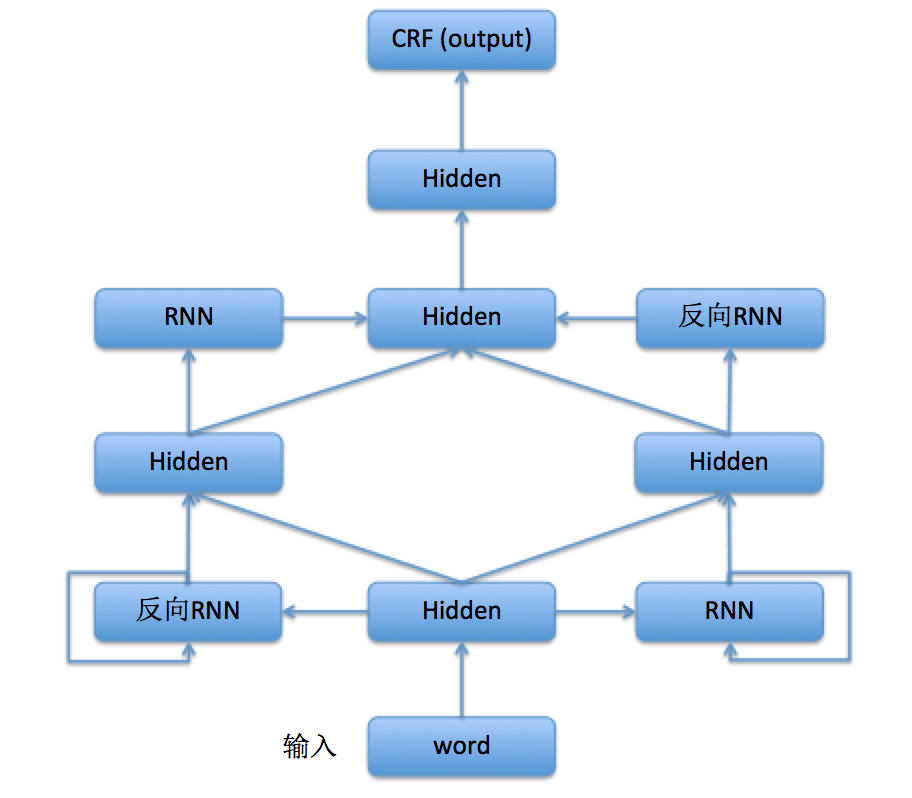
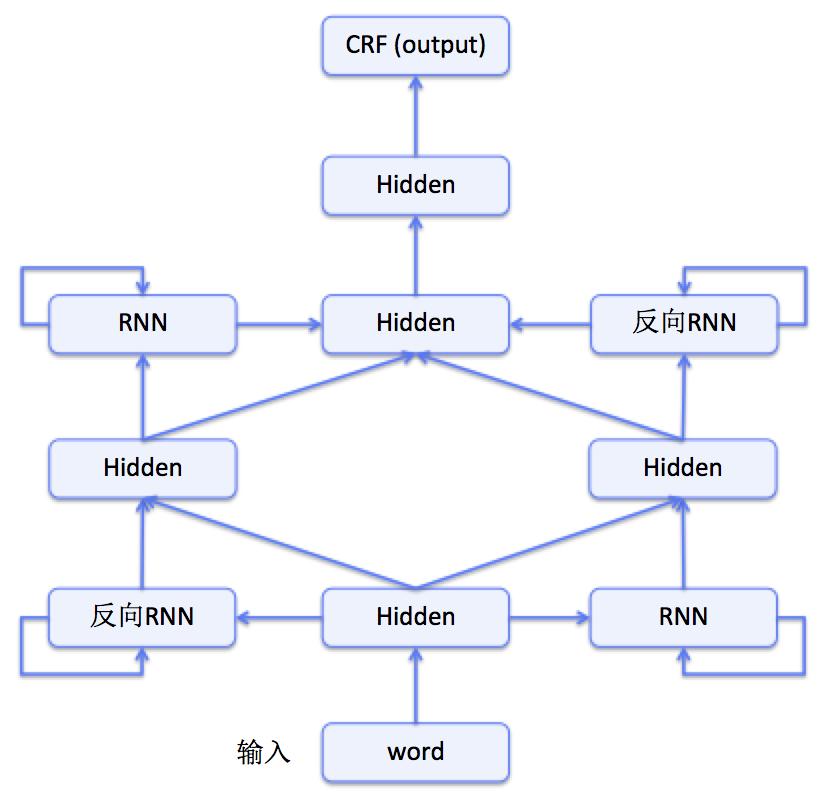
change according to comments on commit e43f1e2

Changed region(s): [[0.0, 0.0, 1.0, 0.9925]]

diff --git a/sequence_tagging_for_ner/ner.py b/sequence_tagging_for_ner/ner.py
@@ -49,6 +49,7 @@ def ner_net(is_train):
     hidden_1 = paddle.layer.mixed(
         name='hidden1',
         size=hidden_dim,
+        act=paddle.activation.Tanh(),
         bias_attr=std_default,
         input=[
             paddle.layer.full_matrix_projection(
@@ -74,8 +75,10 @@ def ner_net(is_train):
         param_attr=rnn_para_attr)
 
     hidden_2_1 = paddle.layer.mixed(
+        name='hidden2-1',
         size=hidden_dim,
         bias_attr=std_default,
+        act=paddle.activation.STanh(),
         input=[
             paddle.layer.full_matrix_projection(
                 input=hidden_1, param_attr=hidden_para_attr),
@@ -83,8 +86,10 @@ def ner_net(is_train):
                 input=rnn_1_1, param_attr=rnn_para_attr)
         ])
     hidden_2_2 = paddle.layer.mixed(
+        name='hidden2-2',
         size=hidden_dim,
         bias_attr=std_default,
+        act=paddle.activation.STanh(),
         input=[
             paddle.layer.full_matrix_projection(
                 input=hidden_1, param_attr=hidden_para_attr),
@@ -110,6 +115,7 @@ def ner_net(is_train):
         name='hidden3',
         size=hidden_dim,
         bias_attr=std_default,
+        act=paddle.activation.STanh(),
         input=[
             paddle.layer.full_matrix_projection(
                 input=hidden_2_1, param_attr=hidden_para_attr),
@@ -158,7 +164,7 @@ def ner_net(is_train):
         return predict
 
 
-def ner_net_train(data_reader, num_passes=1):
+def ner_net_train(data_reader=train_data_reader, num_passes=1):
     # define network topology
     crf_cost, crf_dec, target = ner_net(is_train=True)
     evaluator.sum(name='error', input=crf_dec)
@@ -201,7 +207,9 @@ def ner_net_train(data_reader, num_passes=1):
             # save parameters
             with gzip.open('params_pass_%d.tar.gz' % event.pass_id, 'w') as f:
                 parameters.to_tar(f)
-
+            if event.pass_id == num_passes - 1:
+                with gzip.open('ner_model.tar.gz', 'w') as f:
+                    parameters.to_tar(f)
             result = trainer.test(reader=reader, feeding=feeding)
             print "\nTest with Pass %d, %s" % (event.pass_id, result.metrics)
 
@@ -214,11 +222,13 @@ def ner_net_train(data_reader, num_passes=1):
     return parameters
 
 
-def ner_net_infer(data_reader, parameters):
+def ner_net_infer(data_reader=test_data_reader, model_file='ner_model.tar.gz'):
     test_creator = data_reader
     test_data = []
+    test_sentences = []
     for item in test_creator():
         test_data.append([item[0]])
+        test_sentences.append(item[-1])
         if len(test_data) == 10:
             break
 
@@ -226,18 +236,25 @@ def ner_net_infer(data_reader, parameters):
 
     lab_ids = paddle.infer(
         output_layer=predict,
-        parameters=parameters,
+        parameters=paddle.parameters.Parameters.from_tar(gzip.open(model_file)),
         input=test_data,
         field='id')
+    '''words_reverse = {}
+    for (k, v) in word_dict.items():
+        words_reverse[v] = k
+    flat_data = [words_reverse[word_id] for word_id in itertools.chain.from_iterable(itertools.chain.from_iterable(test_data))]'''
+    flat_data = [word for word in itertools.chain.from_iterable(test_sentences)]
 
     labels_reverse = {}
     for (k, v) in label_dict.items():
         labels_reverse[v] = k
     pre_lab = [labels_reverse[lab_id] for lab_id in lab_ids]
-    print pre_lab
+
+    for word, label in zip(flat_data, pre_lab):
+        print word, label
 
 
 if __name__ == '__main__':
     paddle.init(use_gpu=False, trainer_count=1)
-    parameters = ner_net_train(train_data_reader, 1)
-    ner_net_infer(test_data_reader, parameters)
+    ner_net_train(num_passes=1)
+    ner_net_infer()

diff --git a/sequence_tagging_for_ner/conll03.py b/sequence_tagging_for_ner/conll03.py
@@ -1,16 +1,3 @@
-# Copyright (c) 2016 PaddlePaddle Authors. All Rights Reserved
-#
-# Licensed under the Apache License, Version 2.0 (the "License");
-# you may not use this file except in compliance with the License.
-# You may obtain a copy of the License at
-#
-#     http://www.apache.org/licenses/LICENSE-2.0
-#
-# Unless required by applicable law or agreed to in writing, software
-# distributed under the License is distributed on an "AS IS" BASIS,
-# WITHOUT WARRANTIES OR CONDITIONS OF ANY KIND, either express or implied.
-# See the License for the specific language governing permissions and
-# limitations under the License.
 """
 Conll03 dataset.
 """
@@ -18,6 +5,7 @@ Conll03 dataset.
 import tarfile
 import gzip
 import itertools
+import collections
 import re
 import numpy as np
 
@@ -41,6 +29,32 @@ def canonicalize_word(word, wordset=None, digits=True):
         word = canonicalize_digits(word)  # try to canonicalize numbers
     if (wordset == None) or (word in wordset): return word
     else: return "UUUNKKK"  # unknown token
+
+
+def corpus_reader(filename='data/train'):
+    def reader():
+        sentence = []
+        labels = []
+        with open(filename) as f:
+            for line in f:
+                if re.match(r"-DOCSTART-.+", line) or (len(line.strip()) == 0):
+                    if len(sentence) > 0:
+                        yield sentence, labels
+                    sentence = []
+                    labels = []
+                else:
+                    segs = line.strip().split()
+                    sentence.append(segs[0])
+                    # transform from I-TYPE to BIO schema
+                    if segs[-1] != 'O' and (len(labels) == 0 or
+                                            labels[-1][1:] != segs[-1][1:]):
+                        labels.append('B' + segs[-1][1:])
+                    else:
+                        labels.append(segs[-1])
+
+        f.close()
+
+    return reader
 
 
 def load_dict(filename):
@@ -98,7 +112,7 @@ def reader_creator(corpus_reader, word_dict, label_dict):
     Conll03 train set creator.
 
     The dataset can be obtained according to http://www.clips.uantwerpen.be/conll2003/ner/.
-    It returns a reader creator, each sample in the reader includes sentence sequence and tagged sequence.
+    It returns a reader creator, each sample in the reader includes word id sequence, label id sequence and raw sentence for purpose of print.
 
     :return: Training reader creator
     :rtype: callable
@@ -111,7 +125,7 @@ def reader_creator(corpus_reader, word_dict, label_dict):
                 for w in sentence
             ]
             label_idx = [label_dict.get(w) for w in labels]
-            yield word_idx, label_idx
+            yield word_idx, label_idx, sentence
 
     return reader
 

diff --git a/sequence_tagging_for_ner/README.md b/sequence_tagging_for_ner/README.md
@@ -1,25 +1,63 @@
 #命名实体识别
+
 ##背景说明
+
 命名实体识别（Named Entity Recognition，NER）又称作“专名识别”，是指识别文本中具有特定意义的实体，主要包括人名、地名、机构名、专有名词等，是自然语言处理研究的一个基础问题。NER任务通常包括实体边界识别、确定实体类别两部分，可以将其作为序列标注问题，根据序列标注结果可以直接得到实体边界和实体类别。
+
 ##数据说明
-在本示例中，我们将使用CoNLL 2003 NER任务中开放出的数据集。由于版权原因，我们暂不提供此数据集的下载，可以按照[此页面](http://www.clips.uantwerpen.be/conll2003/ner/)中的说明免费获取该数据。该数据集中训练和测试数据格式如下
-<img src="image/data_format.png" width = "60%"  align=center /><br>
-其中第一列为原始句子序列，第四列为采用了I-TYPE方式表示的NER标签（I-TYPE和[BIO方式](https://github.com/PaddlePaddle/book/tree/develop/07.label_semantic_roles)的主要区别在于语块开始标记的使用上，I-TYPE只有在出现相邻的同类别实体时对后者使用B标记，其他均使用I标记），而我们这里将使用BIO方式表示的标签集，这两种方式的转换过程在我们提供的`conll03.py`文件中进行。另外，我们针对此数据集提供了word词典、label词典和预训练的词向量三个文件，可以直接下载使用。
+
+在本示例中，我们将使用CoNLL 2003 NER任务中开放出的数据集。由于版权原因，我们暂不提供此数据集的下载，可以按照[此页面](http://www.clips.uantwerpen.be/conll2003/ner/)中的说明免费获取该数据。此数据集中训练和测试数据格式如下：
+
+```
+   U.N.         NNP  I-NP  I-ORG
+   official     NN   I-NP  O
+   Ekeus        NNP  I-NP  I-PER
+   heads        VBZ  I-VP  O
+   for          IN   I-PP  O
+   Baghdad      NNP  I-NP  I-LOC
+   .            .    O     O
+```
+
+其中第一列为原始句子序列（第二、三列分别为词性标签和句法分析中的语块标签，这里暂时不用），第四列为采用了I-TYPE方式表示的NER标签（I-TYPE和[BIO方式](https://github.com/PaddlePaddle/book/tree/develop/07.label_semantic_roles)的主要区别在于语块开始标记的使用上，I-TYPE只有在出现相邻的同类别实体时对后者使用B标记，其他均使用I标记），而我们这里将使用BIO方式表示的标签集，这两种方式的转换过程在我们提供的`conll03.py`文件中进行。另外，我们附上word词典、label词典和预训练的词向量三个文件（word词典和词向量来源于[Stanford cs224d](http://cs224d.stanford.edu/)课程作业）以供使用。
+
 ##模型说明
-在本示例中，我们所使用的模型结构如图1所示，更多关于序列标注网络模型的知识可见[此页面](https://github.com/PaddlePaddle/book/tree/develop/07.label_semantic_roles)。
+
+在本示例中，我们所使用的模型结构如图1所示。其输入为句子序列，在取词向量转换为词向量序列后，经过多组全连接层、双向RNN进行特征提取，最后接入CRF以学习到的特征为输入，以标记序列为监督信号，完成序列标注。更多关于RNN及其变体的知识可见[此页面](http://book.paddlepaddle.org/06.understand_sentiment/)。
 <div  align="center">  
-<img src="image/ner_network.png" width = "60%"  align=center /><br>
+<img src="image/ner_network.png" width = "40%"  align=center /><br>
 图1. NER模型网络结构
 </div>
-##使用说明
-在获取到上文提到的数据集和文件资源后，将`ner.py`中如下的数据设置部分进行更改
+
+##运行说明
+
+###数据设置
+
+运行`ner.py`需要对数据设置部分进行更改，将以下代码中的变量值修改为正确的文件路径即可。
 
 ```python
 # init dataset
-train_data_file = 'data/train'
-test_data_file = 'data/test'
-vocab_file = 'data/vocab.txt'
-target_file = 'data/target.txt'
-emb_file = 'data/wordVectors.txt'
+train_data_file = 'data/train'    #训练数据文件
+test_data_file = 'data/test'      #测试数据文件
+vocab_file = 'data/vocab.txt'     #word_dict文件
+target_file = 'data/target.txt'   #label_dict文件
+emb_file = 'data/wordVectors.txt' #词向量文件
 ```
-TBD
+
+###训练和预测
+
+`ner.py`提供了以下两个接口分别进行模型训练和预测：
+
+1. `ner_net_train(data_reader, num_passes)`函数实现了模型训练功能，参数`data_reader`表示训练数据的迭代器（使用默认值即可）、`num_passes`表示训练pass的轮数。训练过程中每100个iteration会打印模型训练信息，每个pass后会将模型保存下来，并将最终模型保存为`ner_net.tar.gz`。
+
+2. `ner_net_infer(data_reader, model_file)`函数实现了预测功能，参数`data_reader`表示测试数据的迭代器（使用默认值即可）、`model_file`表示保存在本地的模型文件，预测过程会按如下格式打印预测结果：
+
+	```
+	   U.N.      B-ORG
+	   official  O
+	   Ekeus     B-PER
+	   heads     O
+	   for       O
+	   Baghdad   B-LOC
+	   .         O
+	```
+	其中第一列为原始句子序列，第二列为BIO方式表示的NER标签。
